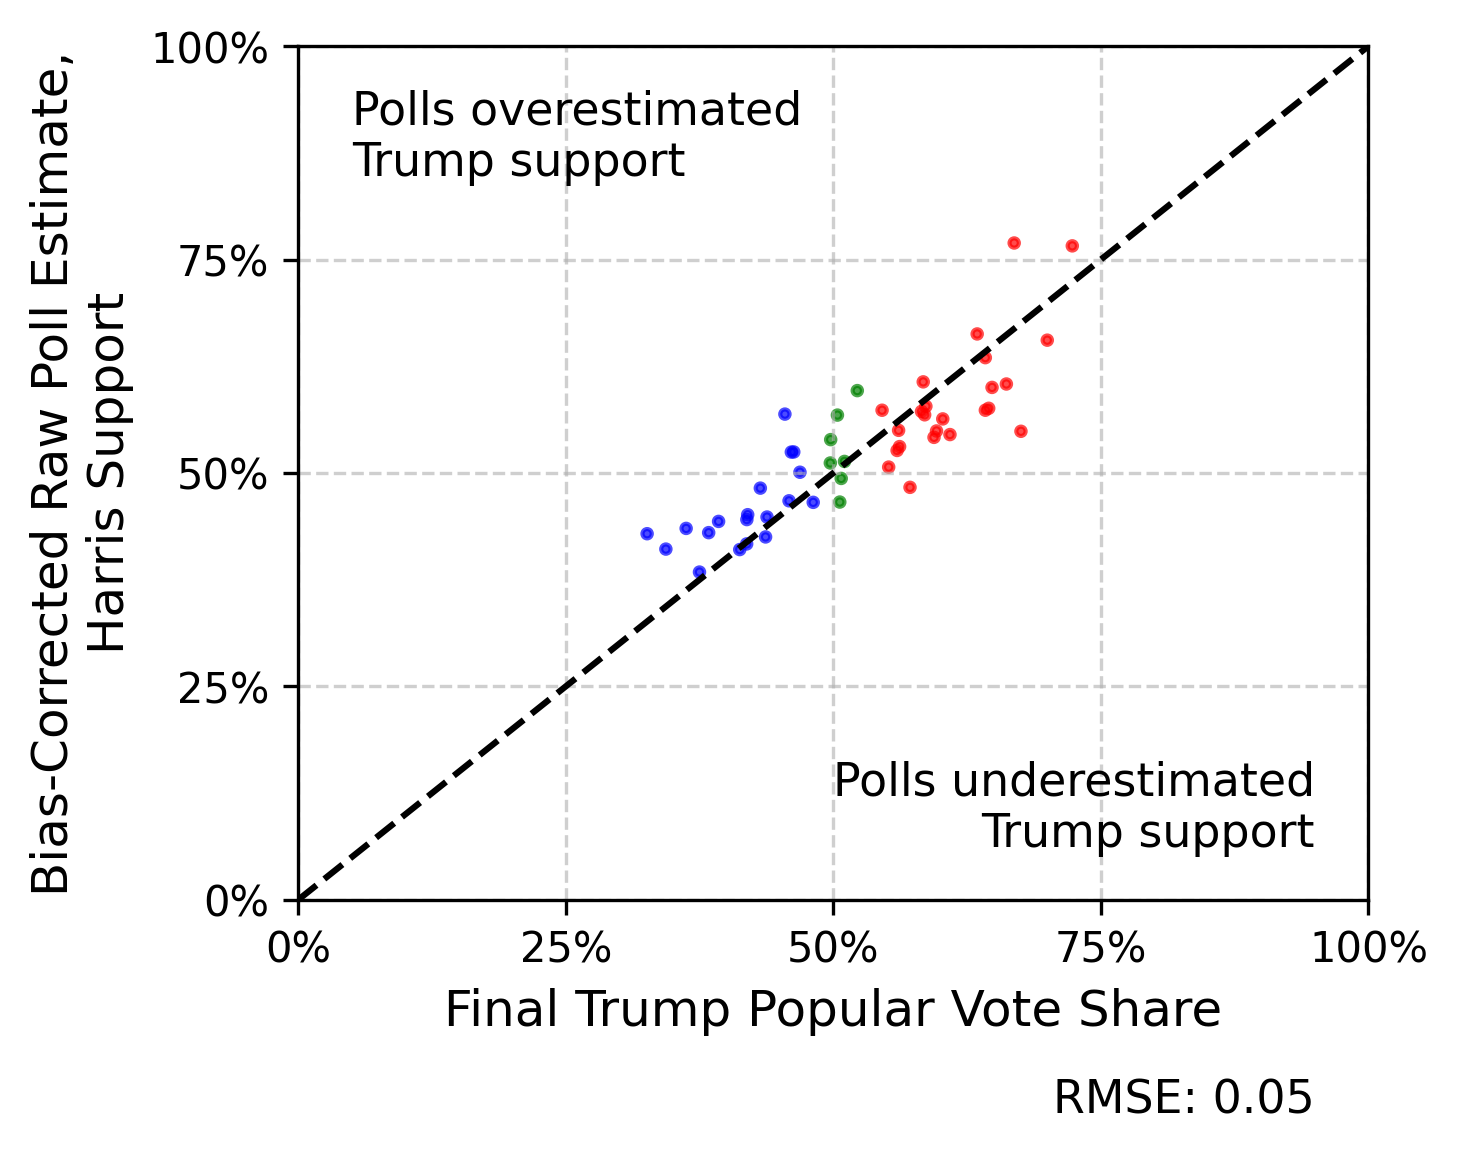
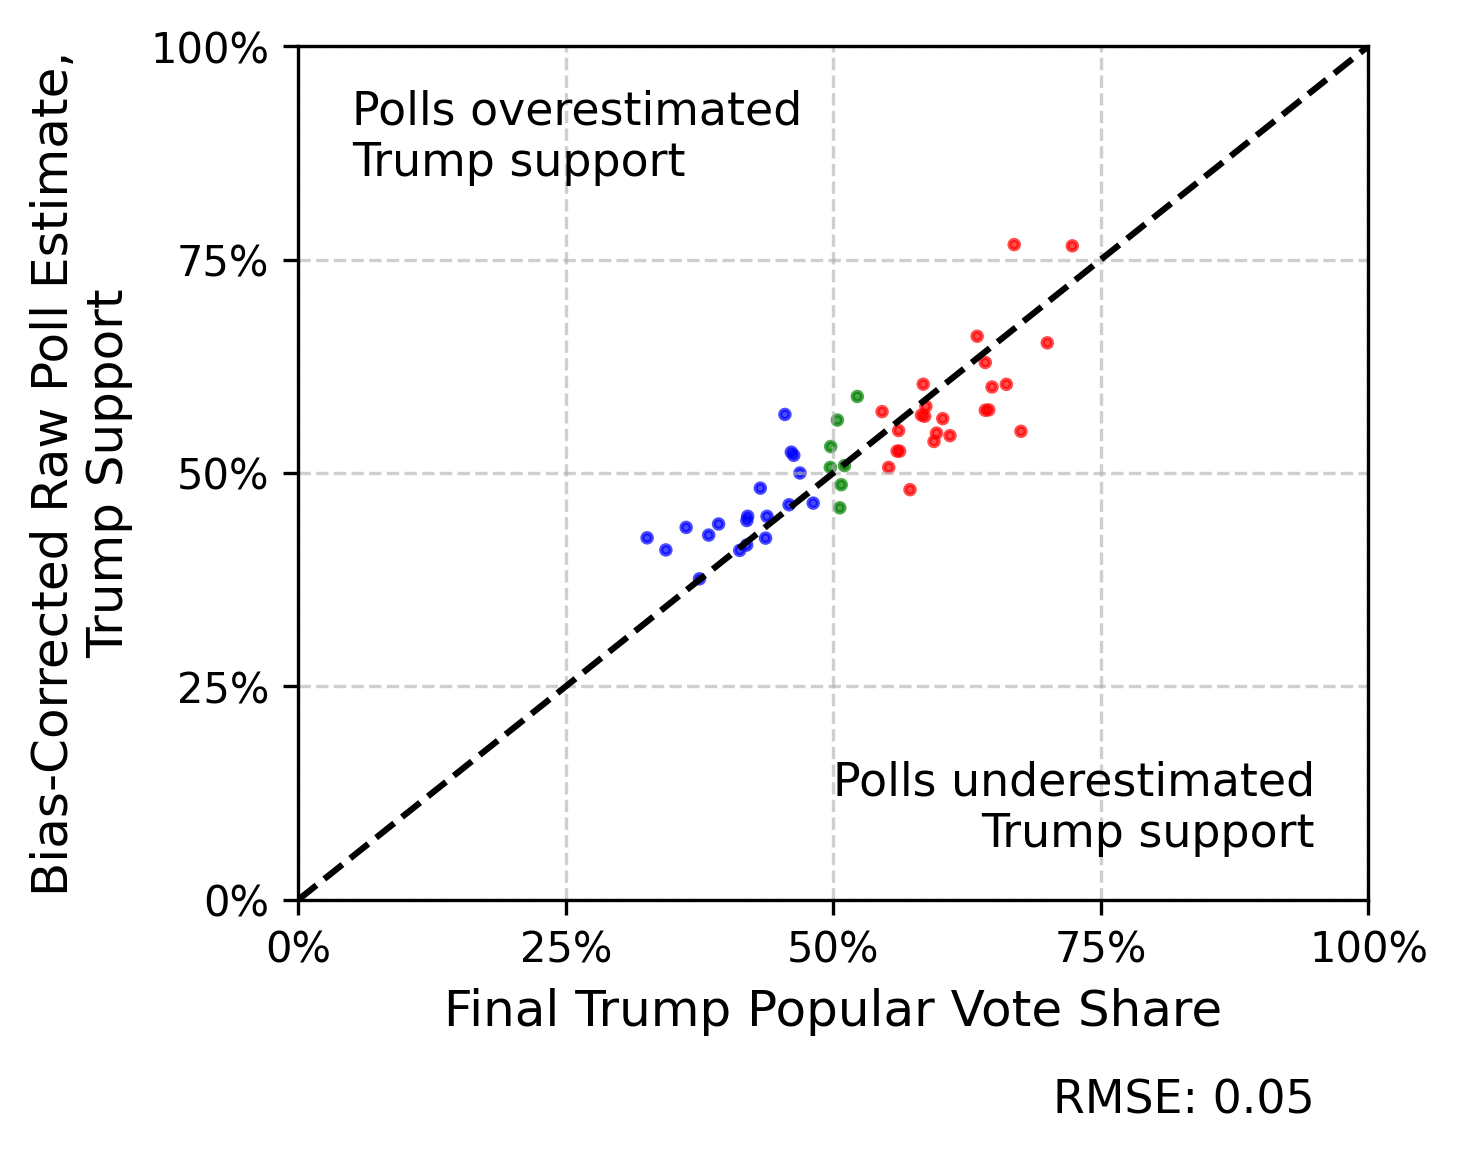
bias correction

diff --git a/src/bias_correction.py b/src/bias_correction.py
@@ -1,15 +1,19 @@
 # this file computes the unbiased estimator given an estimator
 # input: ../data/merged_all_voters.csv
+# Turnout data: ../data/Turnout_2016G_v1.0.csv
+# VEP data: ../data/Turnout_2024G_v0.3.csv
 # columns: Unnamed: 0,state,trump_votes,harris_votes,total_votes,last_updated,trump_share,harris_share,State,Pre-Election Classification,inputstate,harris_poll_all,trump_poll_all,num_respondents_all
 # task: compute trump_poll_all - rho * sqrt((1-f)/f) * sigma
 # rho = -0.0045
-# f = sample_ratio = num_respondents_all / total_votes
+# f = sample_ratio = num_respondents_all / estimated_votes
+#     where estimated_votes = 2016_turnout * 2024_vep
 # sigma = standard deviation of trump_poll_all
 # output: ../data/bias_correction.csv
 
 import pandas as pd
 import numpy as np
 import os
+import re
 
 # Constants
 RHO = -0.0045
@@ -18,11 +22,68 @@ RHO = -0.0045
 script_dir: str = os.path.dirname(os.path.abspath(__file__))
 os.chdir(script_dir)
 
+# Helper function to clean percentage strings
+def clean_percentage(pct_str):
+    if pd.isna(pct_str):
+        return np.nan
+    if isinstance(pct_str, (int, float)):
+        return pct_str / 100  # Already a number, just convert to proportion
+    # Remove % sign and convert to float, then to proportion
+    return float(pct_str.rstrip('%')) / 100
+
+# Helper function to clean numeric strings with commas
+def clean_numeric(num_str):
+    if pd.isna(num_str):
+        return np.nan
+    if isinstance(num_str, (int, float)):
+        return num_str  # Already a number
+    # Remove commas and convert to float
+    return float(re.sub(r'[,]', '', str(num_str)))
+
 # Load data
 df = pd.read_csv('../data/merged_all_voters.csv')
 
-# Calculate sample ratio f = num_respondents_all / total_votes
-df['f'] = df['num_respondents_all'] / df['total_votes']
+# Load turnout data
+turnout_2016 = pd.read_csv('../data/Turnout_2016G_v1.0.csv')
+turnout_2024 = pd.read_csv('../data/Turnout_2024G_v0.3.csv')
+
+# Prepare turnout data
+# Extract VEP_TURNOUT_RATE from 2016 data (as proportion)
+turnout_2016['turnout_rate_2016'] = turnout_2016['VEP_TURNOUT_RATE'].apply(clean_percentage)
+
+# Extract VEP from 2024 data
+turnout_2024['vep_2024'] = turnout_2024['VEP'].apply(clean_numeric)
+
+# Prepare data for merging
+turnout_2016 = turnout_2016[['STATE', 'turnout_rate_2016']]
+turnout_2024 = turnout_2024[['STATE', 'vep_2024']]
+
+# Merge the turnout data frames together
+turnout_data = pd.merge(turnout_2016, turnout_2024, on='STATE', how='inner')
+
+# Rename the state column in the main dataframe to match turnout data for merging
+df['STATE'] = df['State']
+
+# Merge the turnout data with the main dataframe
+df = pd.merge(df, turnout_data, on='STATE', how='left')
+
+# Print some debugging information
+print(f"States in merged_all_voters: {df['State'].nunique()}")
+print(f"States in turnout data: {turnout_data['STATE'].nunique()}")
+print(f"States successfully matched: {df['turnout_rate_2016'].notna().sum()}")
+
+# Calculate estimated votes = 2016 turnout rate * 2024 vep
+df['estimated_votes'] = df['turnout_rate_2016'] * df['vep_2024']
+
+# Check if we have any NaN values in estimated_votes
+if df['estimated_votes'].isna().any():
+    print(f"Warning: {df['estimated_votes'].isna().sum()} states have missing estimated_votes")
+    print("Using total_votes as a fallback for these states")
+    # Use total_votes as a fallback
+    df.loc[df['estimated_votes'].isna(), 'estimated_votes'] = df.loc[df['estimated_votes'].isna(), 'total_votes']
+
+# Calculate sample ratio f = num_respondents_all / estimated_votes
+df['f'] = df['num_respondents_all'] / df['estimated_votes']
 
 # Calculate sigma for each row as the standard deviation of a Bernoulli distribution
 # For a Bernoulli distribution with probability p, the standard deviation is sqrt(p*(1-p))
@@ -40,7 +101,7 @@ df['harris_poll_corrected'] = 1 - df['trump_poll_corrected']
 # Save the results
 output_columns = [
     'Unnamed: 0', 'state', 'trump_votes', 'harris_votes', 'total_votes', 
-    'last_updated', 'trump_share', 'harris_share', 'State', 
+    'estimated_votes', 'last_updated', 'trump_share', 'harris_share', 'State', 
     'Pre-Election Classification', 'inputstate', 'harris_poll_all', 
     'trump_poll_all', 'num_respondents_all', 'f', 'sigma', 'bias_correction_term',
     'trump_poll_corrected', 'harris_poll_corrected'

diff --git a/data/README.md b/data/README.md
@@ -10,3 +10,4 @@
 - `state_abbr.csv` is generated from 3.7 Sonnet.
 - `figure_*.csv` is generated from `src/figure_*.py` files
 - `effective_sample_size.csv` is generated from `src/effective_sample_size.py`
+- Turnout datasets are from the [Election Lab of the University of Florida](https://election.lab.ufl.edu/dataset/2024-general-election-turnout-rates-v0-3/)
